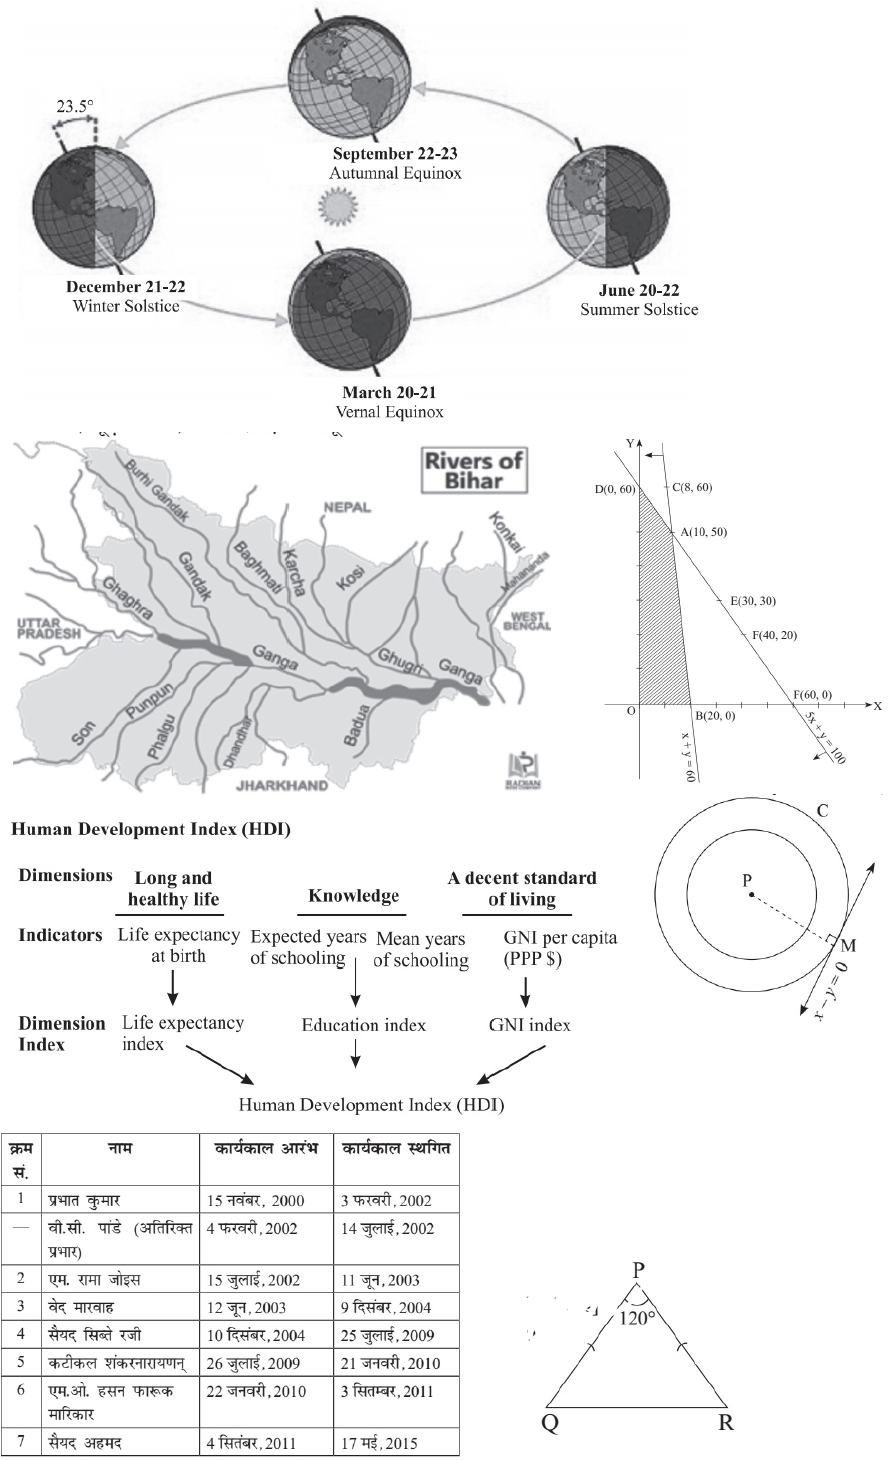
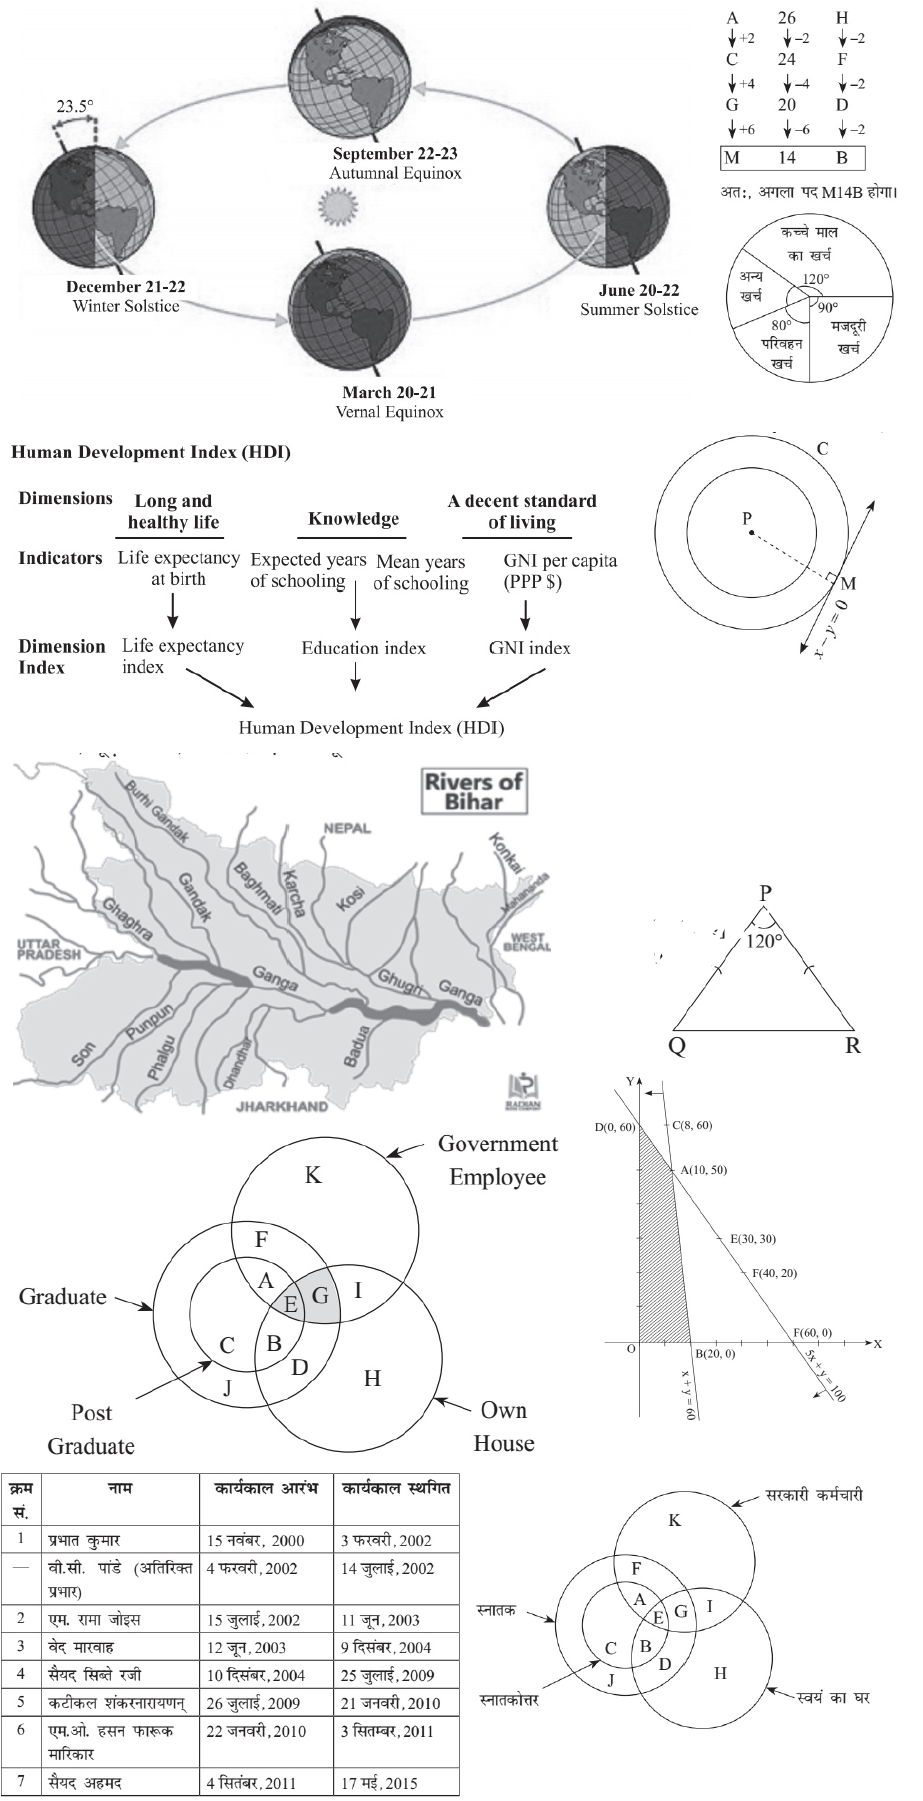
Added hindi.

diff --git a/img/psc/bpsc/prev/bpsc-hin1.css b/img/psc/bpsc/prev/bpsc-hin1.css
@@ -7,26 +7,38 @@ Responsive: <div class="yourspritesname"></div>
 */
 
 
+.BPSC_2017_24_SOL {max-width:190px; max-height:207px; }
+.BPSC_2017_24_SOL::after {content: '\00a0';display: inline-block; width:190px; height:207px; background-position: 97.81718963165075% 0.06273525721455459%;background-size: 485.7894736842105% 870.0483091787439%;background-image: url(bpsc-hin1.png);padding: 0; }
+div.BPSC_2017_24_SOL::after {max-width:190px; width:100%;height:0;padding: 0 0 108.94736842105263% 0;}
+.BPSC_2017_26_Q {max-width:428px; max-height:282px; }
+.BPSC_2017_26_Q::after {content: '\00a0';display: inline-block; width:428px; height:282px; background-position: 93.33333333333333% 96.7741935483871%;background-size: 215.65420560747663% 638.6524822695036%;background-image: url(bpsc-hin1.png);padding: 0; }
+div.BPSC_2017_26_Q::after {max-width:428px; width:100%;height:0;padding: 0 0 65.88785046728972% 0;}
+.BPSC_2017_26_SOL {max-width:567px; max-height:339px; }
+.BPSC_2017_26_SOL::after {content: '\00a0';display: inline-block; width:567px; height:339px; background-position: 0.2808988764044944% 77.29138166894664%;background-size: 162.78659611992944% 531.2684365781711%;background-image: url(bpsc-hin1.png);padding: 0; }
+div.BPSC_2017_26_SOL::after {max-width:567px; width:100%;height:0;padding: 0 0 59.78835978835979% 0;}
+.BPSC_2017_29_Q {max-width:181px; max-height:181px; }
+.BPSC_2017_29_Q::after {content: '\00a0';display: inline-block; width:181px; height:181px; background-position: 96.63072776280323% 12.901234567901234%;background-size: 509.9447513812155% 995.0276243093923%;background-image: url(bpsc-hin1.png);padding: 0; }
+div.BPSC_2017_29_Q::after {max-width:181px; width:100%;height:0;padding: 0 0 100% 0;}
 .BPSC_46th_2004_125_SOL {max-width:634px; max-height:320px; }
-.BPSC_46th_2004_125_SOL::after {content: '\00a0';display: inline-block; width:634px; height:320px; background-position: 0.38461538461538464% 70.90271691498685%;background-size: 141.00946372239747% 456.5625%;background-image: url(bpsc-hin1.png);padding: 0; }
+.BPSC_46th_2004_125_SOL::after {content: '\00a0';display: inline-block; width:634px; height:320px; background-position: 0.3460207612456747% 29.169480081026332%;background-size: 145.58359621451103% 562.8125%;background-image: url(bpsc-hin1.png);padding: 0; }
 div.BPSC_46th_2004_125_SOL::after {max-width:634px; width:100%;height:0;padding: 0 0 50.473186119873816% 0;}
 .BPSC_46th_2004_128_SOL {max-width:257px; max-height:233px; }
-.BPSC_46th_2004_128_SOL::after {content: '\00a0';display: inline-block; width:257px; height:233px; background-position: 99.84301412872841% 64.65798045602605%;background-size: 347.8599221789883% 627.0386266094421%;background-image: url(bpsc-hin1.png);padding: 0; }
+.BPSC_46th_2004_128_SOL::after {content: '\00a0';display: inline-block; width:257px; height:233px; background-position: 95.49549549549549% 27.551020408163264%;background-size: 359.14396887159535% 772.9613733905579%;background-image: url(bpsc-hin1.png);padding: 0; }
 div.BPSC_46th_2004_128_SOL::after {max-width:257px; width:100%;height:0;padding: 0 0 90.6614785992218% 0;}
 .BPSC_46th_2004_85_SOL {max-width:587px; max-height:376px; }
-.BPSC_46th_2004_85_SOL::after {content: '\00a0';display: inline-block; width:587px; height:376px; background-position: 0.3257328990228013% 39.815668202764975%;background-size: 152.2998296422487% 388.56382978723406%;background-image: url(bpsc-hin1.png);padding: 0; }
+.BPSC_46th_2004_85_SOL::after {content: '\00a0';display: inline-block; width:587px; height:376px; background-position: 0.2976190476190476% 52.8421052631579%;background-size: 157.24020442930154% 478.98936170212767%;background-image: url(bpsc-hin1.png);padding: 0; }
 div.BPSC_46th_2004_85_SOL::after {max-width:587px; width:100%;height:0;padding: 0 0 64.05451448040886% 0;}
 .BPSC_47th_2005_124_SOL {max-width:303px; max-height:361px; }
-.BPSC_47th_2005_124_SOL::after {content: '\00a0';display: inline-block; width:303px; height:361px; background-position: 99.66159052453469% 39.27272727272727%;background-size: 295.0495049504951% 404.7091412742382%;background-image: url(bpsc-hin1.png);padding: 0; }
+.BPSC_47th_2005_124_SOL::after {content: '\00a0';display: inline-block; width:303px; height:361px; background-position: 95% 74.30555555555556%;background-size: 304.62046204620464% 498.8919667590028%;background-image: url(bpsc-hin1.png);padding: 0; }
 div.BPSC_47th_2005_124_SOL::after {max-width:303px; width:100%;height:0;padding: 0 0 119.14191419141915% 0;}
 .BPSC_47th_2005_144_SOL {max-width:460px; max-height:330px; }
-.BPSC_47th_2005_144_SOL::after {content: '\00a0';display: inline-block; width:460px; height:330px; background-position: 0.2304147465437788% 99.91158267020336%;background-size: 194.34782608695653% 442.72727272727275%;background-image: url(bpsc-hin1.png);padding: 0; }
+.BPSC_47th_2005_144_SOL::after {content: '\00a0';display: inline-block; width:460px; height:330px; background-position: 0.2159827213822894% 99.93201903467029%;background-size: 200.65217391304347% 545.7575757575758%;background-image: url(bpsc-hin1.png);padding: 0; }
 div.BPSC_47th_2005_144_SOL::after {max-width:460px; width:100%;height:0;padding: 0 0 71.73913043478261% 0;}
 .BPSC_47th_2005_82_SOL {max-width:715px; max-height:430px; }
-.BPSC_47th_2005_82_SOL::after {content: '\00a0';display: inline-block; width:715px; height:430px; background-position: 0.5586592178770949% 0.09699321047526673%;background-size: 125.03496503496504% 339.7674418604651%;background-image: url(bpsc-hin1.png);padding: 0; }
+.BPSC_47th_2005_82_SOL::after {content: '\00a0';display: inline-block; width:715px; height:430px; background-position: 0.4807692307692308% 0.07293946024799416%;background-size: 129.0909090909091% 418.83720930232556%;background-image: url(bpsc-hin1.png);padding: 0; }
 div.BPSC_47th_2005_82_SOL::after {max-width:715px; width:100%;height:0;padding: 0 0 60.13986013986014% 0;}
 .BPSC_53rd_55th_2011_79_SOL {max-width:333px; max-height:316px; }
-.BPSC_53rd_55th_2011_79_SOL::after {content: '\00a0';display: inline-block; width:333px; height:316px; background-position: 82.3529411764706% 98.68995633187772%;background-size: 268.4684684684685% 462.34177215189874%;background-image: url(bpsc-hin1.png);padding: 0; }
+.BPSC_53rd_55th_2011_79_SOL::after {content: '\00a0';display: inline-block; width:333px; height:316px; background-position: 99.83050847457628% 50.707070707070706%;background-size: 277.17717717717716% 569.9367088607595%;background-image: url(bpsc-hin1.png);padding: 0; }
 div.BPSC_53rd_55th_2011_79_SOL::after {max-width:333px; width:100%;height:0;padding: 0 0 94.89489489489489% 0;}
 
-/* $TexturePacker:SmartUpdate:40231dae3cbb42b268b229761f5489fb:52ca85d9eac2f73b915b6b6c17d94d96:6619d3cd71b143296435f25b402ddc72$ */
+/* $TexturePacker:SmartUpdate:e5a9c0473d275d85070e31eb3f35b0df:99f0727a2d93b667b38464891f6643b7:6619d3cd71b143296435f25b402ddc72$ */
